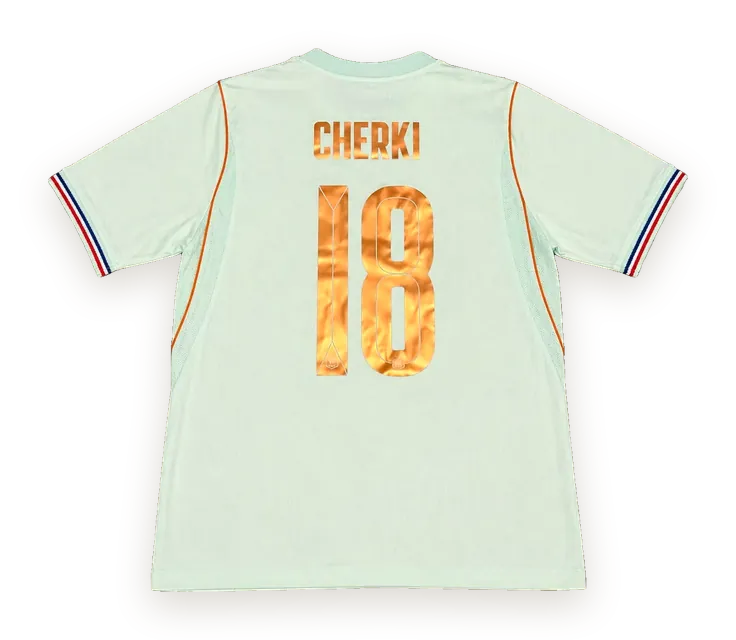
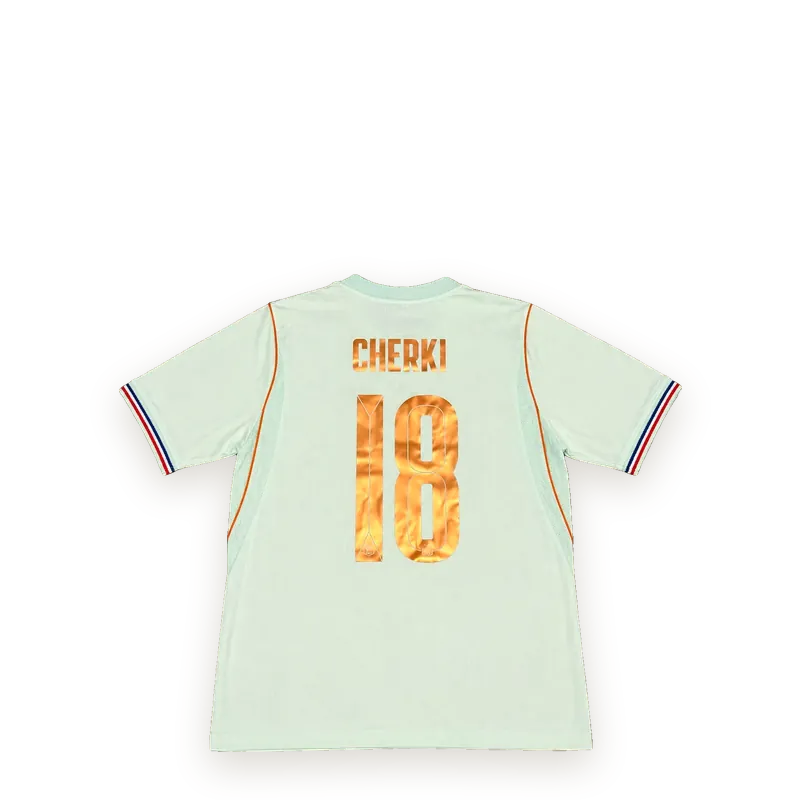
Hero: shirts even groot, grotere buren, stopt na één ronde
- Uitknipsels opnieuw geëxporteerd op hetzelfde vierkante canvas, geschaald op
  dezelfde lijfbreedte: elk shirt is in de spotlight even groot.
- Buren 76% (was 72%) met genoeg lucht tot de rand op elke breedte.
- Waaier stopt na één volledige ronde; alleen de drie zichtbare shirts zijn
  met toetsenbord en schermlezer bereikbaar.

diff --git a/css/home.css b/css/home.css
@@ -49,11 +49,11 @@
    de beweging: er springt dus nooit een mouw door een ander shirt heen. De posities liggen zo ver uit elkaar
    dat een buur alleen mouw en zijkant bedekt, nooit het nummer.
    Alleen transform-eigenschappen (soepel op de GPU); de schaduw zit in de afbeelding (48px rand),
-   48.3cqw = 42cqw shirt + rand. */
+   Alle shirts staan op hetzelfde vierkante canvas, geschaald op dezelfde lijfbreedte (zie images/hero), dus 56cqw is voor elk shirt even groot. */
 .hero-kit{
-  position:absolute;left:50%;bottom:-3.15cqw;width:48.3cqw;height:auto;z-index:var(--z,1);opacity:var(--o,1);
+  position:absolute;left:50%;bottom:-3.4cqw;width:56cqw;height:auto;z-index:var(--z,1);opacity:var(--o,1);
   translate:calc(-50% + var(--x,0cqw)) calc(-1 * var(--y,0cqw));scale:var(--s,1);rotate:var(--r,0deg);
-  transform-origin:50% 93%;will-change:translate,scale,rotate;
+  transform-origin:50% 94%;will-change:translate,scale,rotate;
   /* Alleen schuiven + een kleine schaalstap, geen draaiing: hoe minder er tegelijk verandert, hoe rustiger */
   --ease-slide:cubic-bezier(.76,0,.24,1);
   transition:translate .9s var(--ease-slide),scale .9s var(--ease-slide),opacity .5s ease;
@@ -65,8 +65,8 @@
    komt springt nooit door een ander heen. Alle andere plekken zijn onzichtbaar en liggen net binnen het vlak:
    een nieuw shirt verschijnt zacht terwijl het naar binnen schuift, het vertrekkende vervaagt. */
 .hero-kit[data-slot="3"]{--x:0cqw;  --y:10cqw;--s:1;  --z:9}
-.hero-kit[data-slot="2"]{--x:-31cqw;--y:3cqw; --s:.72;--z:3}
-.hero-kit[data-slot="4"]{--x:31cqw; --y:3cqw; --s:.72;--z:3}
+.hero-kit[data-slot="2"]{--x:-31cqw;--y:3cqw; --s:.76;--z:3}
+.hero-kit[data-slot="4"]{--x:31cqw; --y:3cqw; --s:.76;--z:3}
 .hero-kit[data-slot="0"],.hero-kit[data-slot="1"],.hero-kit[data-slot="out"]{--x:-40cqw;--y:2cqw;--s:.6;--z:1;--o:0}
 .hero-kit[data-slot="5"],.hero-kit[data-slot="6"],.hero-kit[data-slot="in"]{--x:40cqw;--y:2cqw;--s:.6;--z:1;--o:0}
 /* Binnenkomst bij laden: van het midden naar buiten, elk shirt een tik later */
@@ -80,6 +80,8 @@
 @keyframes kitIn{from{opacity:0;transform:translateY(28px)}}
 @keyframes heroRise{from{opacity:0;transform:translateY(12px)}}
 @media (prefers-reduced-motion:reduce){.hero-kit{transition:none}}
+/* Desktop: de waaier staat een fractie links van het midden van zijn kolom, zodat de rechterbuur lucht houdt tot de rand van het vlak */
+@media(min-width:901px){.hero-kit{left:47%}}
 /* Middelgroot scherm: de tekstkolom is smal, dus de buitenste linker plek blijft leeg (anders valt een shirt onder de tekst) */
 @media(max-width:900px){
   /* Gestapeld: waaier boven, tekst eronder in hetzelfde vlak */
@@ -94,8 +96,8 @@
   .hero-kits{aspect-ratio:3/2}
   /* Telefoon: zelfde drie hele shirts, iets kleiner zodat de buren volledig binnen beeld vallen */
   .hero-kit[data-slot="3"]{--y:8cqw;--s:1.05}
-  .hero-kit[data-slot="2"]{--x:-31cqw;--s:.66}
-  .hero-kit[data-slot="4"]{--x:31cqw; --s:.66}
+  .hero-kit[data-slot="2"]{--x:-31cqw;--s:.68}
+  .hero-kit[data-slot="4"]{--x:31cqw; --s:.68}
   .hero-copy{padding:4px 20px 22px}
   .hero .hero-h1{font-size:28px;margin-bottom:10px}
   .hero-sub{font-size:15px;margin-bottom:18px}

diff --git a/index.html b/index.html
@@ -48,7 +48,7 @@ $__heroLead  = $__heroKits[array_search('3', $__heroSlots, true) ?: 0]['file'] ?
 <link rel="preload" href="fonts/space-grotesk-latin.woff2" as="font" type="font/woff2" crossorigin>
 <?php require_once __DIR__ . '/includes/asset.php'; ?><link rel="stylesheet" href="<?= kits_asset('css/fonts.css') ?>">
 <!-- Fonts niet-blokkerend: laadt als 'print' (telt niet mee voor render) en switcht onload naar 'all'. -->
-<?php if ($__heroLead !== ''): ?><link rel="preload" as="image" href="images/hero/<?= $__heroLead ?>.webp?v=3" type="image/webp" fetchpriority="high"><?php endif; ?>
+<?php if ($__heroLead !== ''): ?><link rel="preload" as="image" href="images/hero/<?= $__heroLead ?>.webp?v=4" type="image/webp" fetchpriority="high"><?php endif; ?>
 <script defer src="<?= kits_asset('js/kbe-ios-helpers.js') ?>"></script>
 <script defer src="https://cdn.jsdelivr.net/npm/@emailjs/browser@4.4.1/dist/email.min.js" integrity="sha384-SALc35EccAf6RzGw4iNsyj7kTPr33K7RoGzYu+7heZhT8s0GZouafRiCg1qy44AS" crossorigin="anonymous" referrerpolicy="no-referrer"></script>
 <script type="application/ld+json">
@@ -114,8 +114,8 @@ $__heroLead  = $__heroKits[array_search('3', $__heroSlots, true) ?: 0]['file'] ?
       </div>
     </div>
     <div class="hero-kits">
-<?php foreach ($__heroKits as $__i => $__k): $__slot = $__heroSlots[$__i]; $__hidden = $__slot === 'in'; ?>
-      <a class="hero-kit" data-slot="<?= $__slot ?>" href="<?= htmlspecialchars($__k['href'], ENT_QUOTES, 'UTF-8') ?>" aria-label="Bekijk het shirt van <?= htmlspecialchars($__k['label'], ENT_QUOTES, 'UTF-8') ?>"<?= $__hidden ? ' tabindex="-1" aria-hidden="true"' : '' ?>><img src="images/hero/<?= $__k['file'] ?>.webp?v=3" alt="" width="736" height="720" decoding="async"<?= $__slot === '3' ? ' fetchpriority="high"' : '' ?>></a>
+<?php foreach ($__heroKits as $__i => $__k): $__slot = $__heroSlots[$__i]; $__hidden = !in_array($__slot, ['2', '3', '4'], true); ?>
+      <a class="hero-kit" data-slot="<?= $__slot ?>" href="<?= htmlspecialchars($__k['href'], ENT_QUOTES, 'UTF-8') ?>" aria-label="Bekijk het shirt van <?= htmlspecialchars($__k['label'], ENT_QUOTES, 'UTF-8') ?>"<?= $__hidden ? ' tabindex="-1" aria-hidden="true"' : '' ?>><img src="images/hero/<?= $__k['file'] ?>.webp?v=4" alt="" width="800" height="800" decoding="async"<?= $__slot === '3' ? ' fetchpriority="high"' : '' ?>></a>
 <?php endforeach; ?>
     </div>
   </div>

diff --git a/js/home-hero.js b/js/home-hero.js
@@ -3,17 +3,17 @@
 // de rest wacht rechts in de rij). De stapelvolgorde (CSS) loopt vast van links naar rechts, dus tijdens
 // het schuiven springt er nooit een shirt door een ander heen. De server kiest welke shirts er zijn
 // (alleen producten die te koop zijn, zie includes/hero_kits.php).
-// Stopt buiten beeld, in een verborgen tab, bij hover/focus en bij "minder beweging".
+// Stopt na één volledige ronde, buiten beeld, in een verborgen tab, bij hover/focus en bij "minder beweging".
 (function(){
   var kits = Array.prototype.slice.call(document.querySelectorAll('.hero-kit'));
   var VISIBLE = 7, N = kits.length;
   if (N < VISIBLE + 1 || matchMedia('(prefers-reduced-motion: reduce)').matches) return; // te weinig: waaier staat stil
   var wrap = kits[0].parentNode;
   var pos = kits.map(function(_, i){ return i; }); // 0–6 zichtbaar, 7..N-1 wachten rechts
-  var timer = null, inView = true, hover = false;
+  var timer = null, inView = true, hover = false, ticks = 0, done = false;
 
   function show(k, slot){
-    var hidden = slot === 'in' || slot === 'out';
+    var hidden = !(slot === '2' || slot === '3' || slot === '4'); // alleen de drie shirts in beeld zijn bereikbaar
     k.dataset.slot = slot;
     if (hidden) { k.tabIndex = -1; k.setAttribute('aria-hidden', 'true'); }
     else { k.removeAttribute('tabindex'); k.removeAttribute('aria-hidden'); }
@@ -29,9 +29,11 @@
       var p = pos[i];
       show(k, p < VISIBLE ? String(p) : p === N - 1 ? 'out' : 'in');
     });
+    // Na één volledige ronde (elk shirt één keer in de spotlight) blijft de waaier staan: rust naast kop en knoppen
+    if (++ticks >= N) { done = true; sync(); }
   }
   function sync(){
-    var run = inView && !hover && !document.hidden;
+    var run = !done && inView && !hover && !document.hidden;
     if (run && !timer) timer = setInterval(tick, 4000);
     if (!run && timer) { clearInterval(timer); timer = null; }
   }
